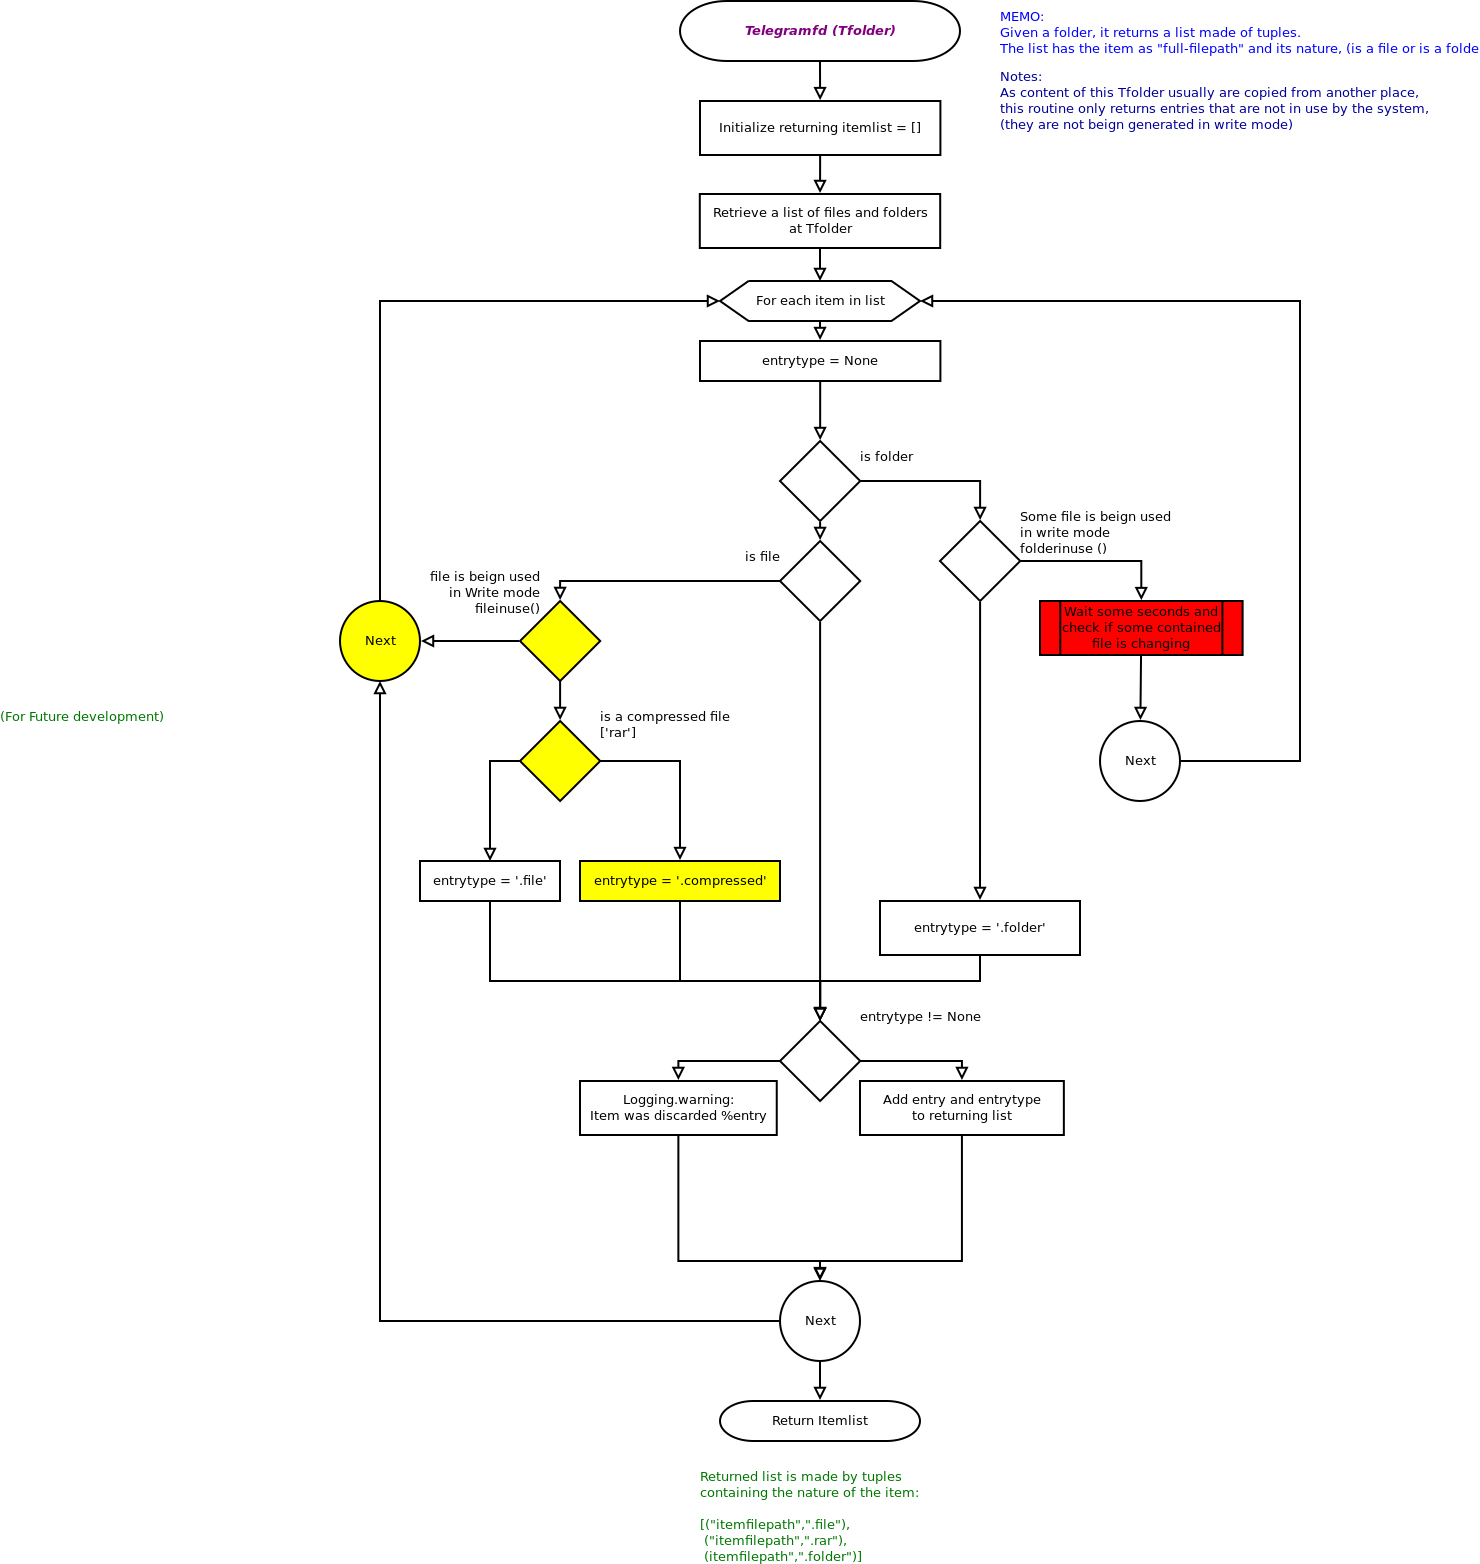
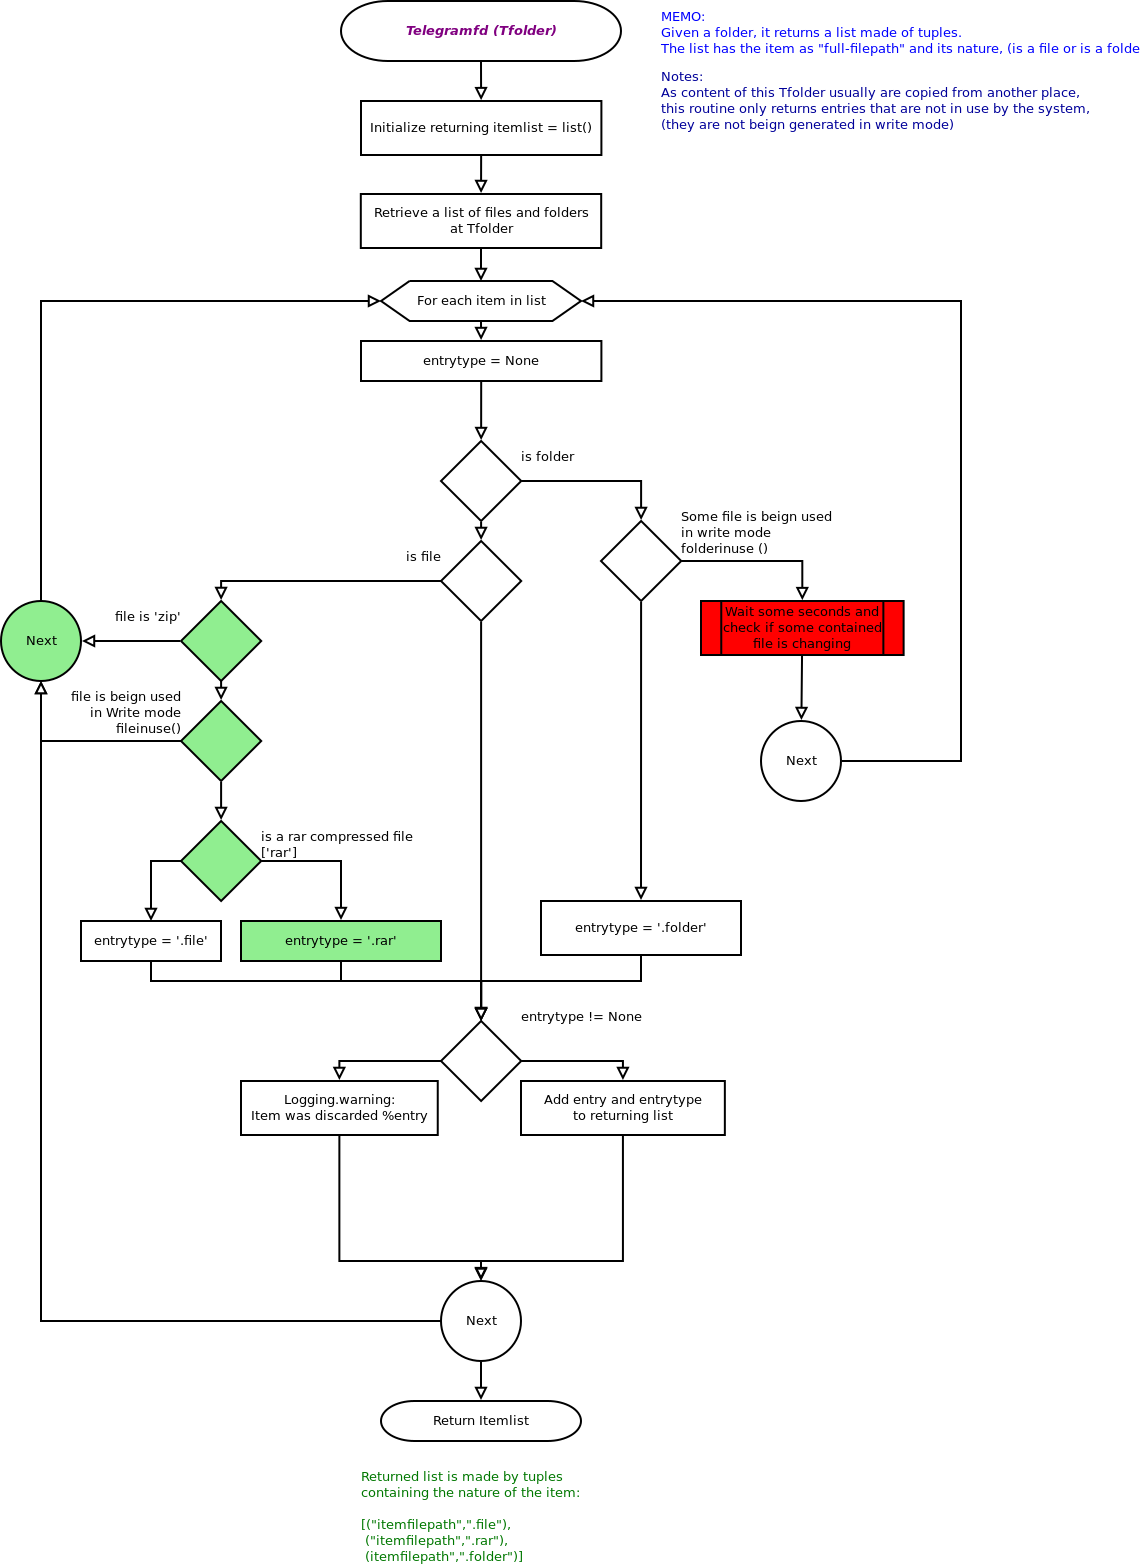
Added rar entries to DB for processing

diff --git a/Gideon.py b/Gideon.py
@@ -2139,12 +2139,16 @@ def Telegramfd (Tfolder):
 				continue
 			entrytype = '.folder'
 		elif os.path.isfile (entry):
-			if os.path.splitext(entry)[1].lower() in ('.rar','.zip','.7z'):
-				logging.info("Detected job %s was not processed because it is a compressed file." %entry)
+			extension = os.path.splitext(entry)[1].lower()
+			if extension in ('.zip','.7z'):
+				logging.info("Detected job %s was not processed because it is not a rar compressed file." %entry)
 				continue
-			if fileinuse (entry) == True:
+			elif fileinuse (entry) == True:
 				logging.info("Detected job %s was not processed because it were open by an application." %entry)
 				continue
+			elif extension == '.rar':
+				logging.info ("Detected a .rar job:")
+				entrytype = extension
 			else:
 				entrytype = '.file'
 		if entrytype != None:

diff --git a/DefTests.py b/DefTests.py
@@ -478,6 +478,7 @@ class TestPack3 (unittest.TestCase):
 			('TESTS/Test3/Telegram Desktop/Printer output.pdf', '.file'),
 			('TESTS/Test3/Telegram Desktop/This is a Zero avi file.avi', '.file'),
 			('TESTS/Test3/Telegram Desktop/File not in use.CBR', '.file'),
+			('TESTS/Test3/Telegram Desktop/This is a dummy rar file.rar', '.rar'),
 			])
 
 		Entries = MD.Telegramfd (self.hotfolder)
